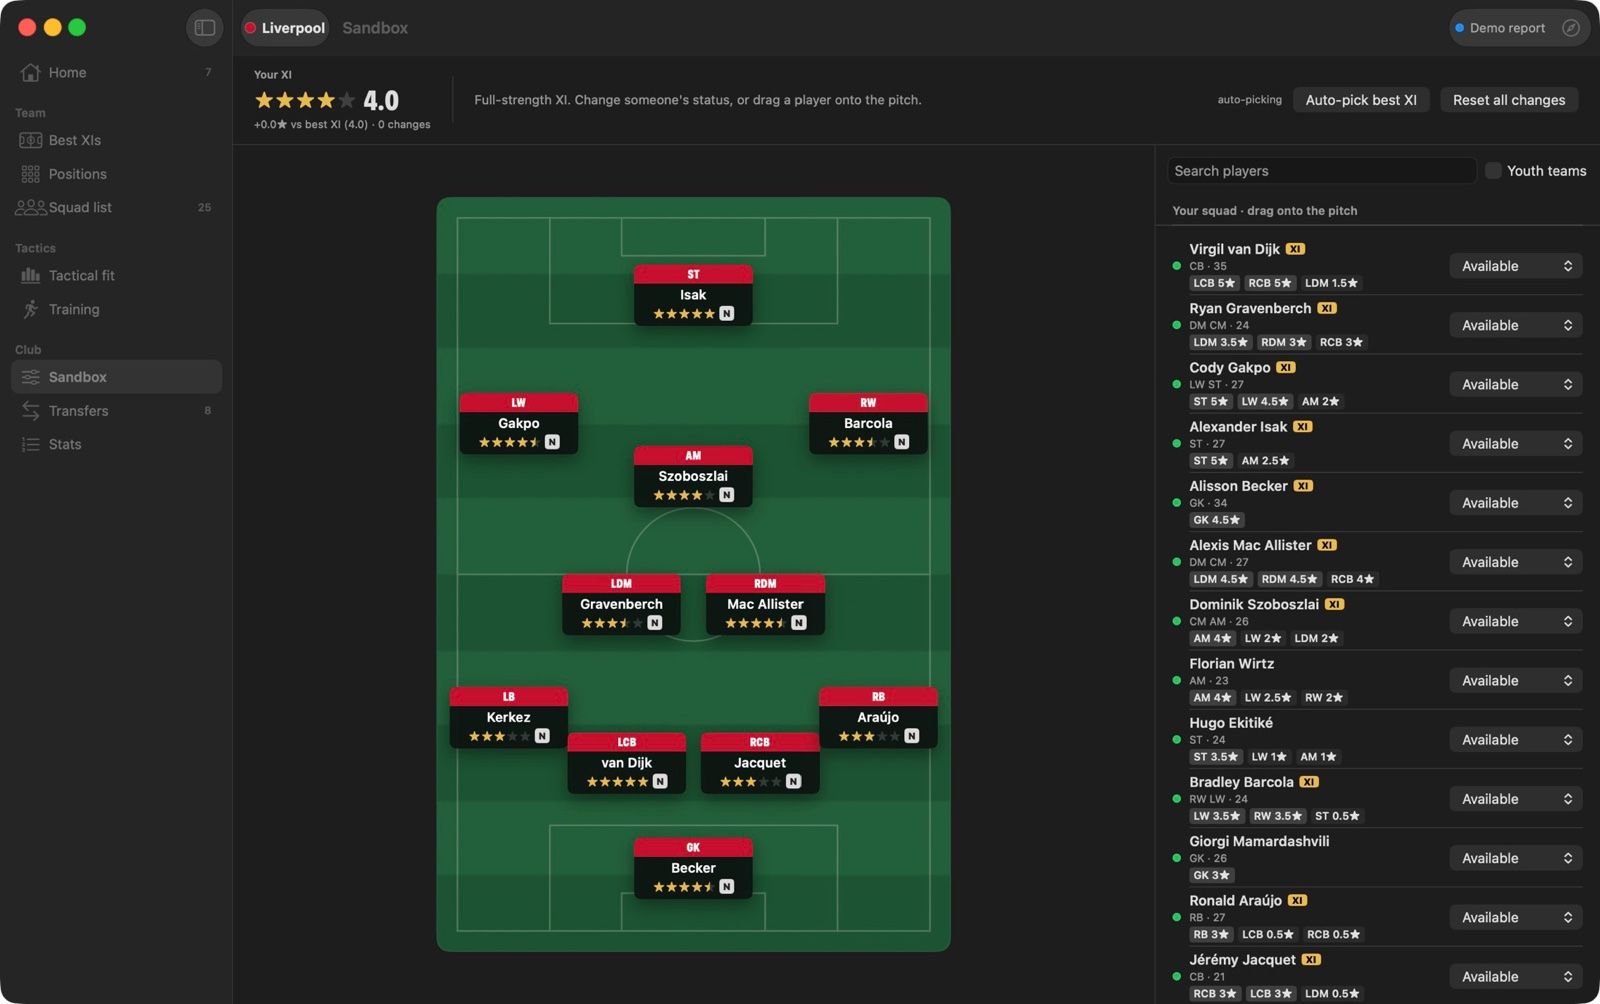
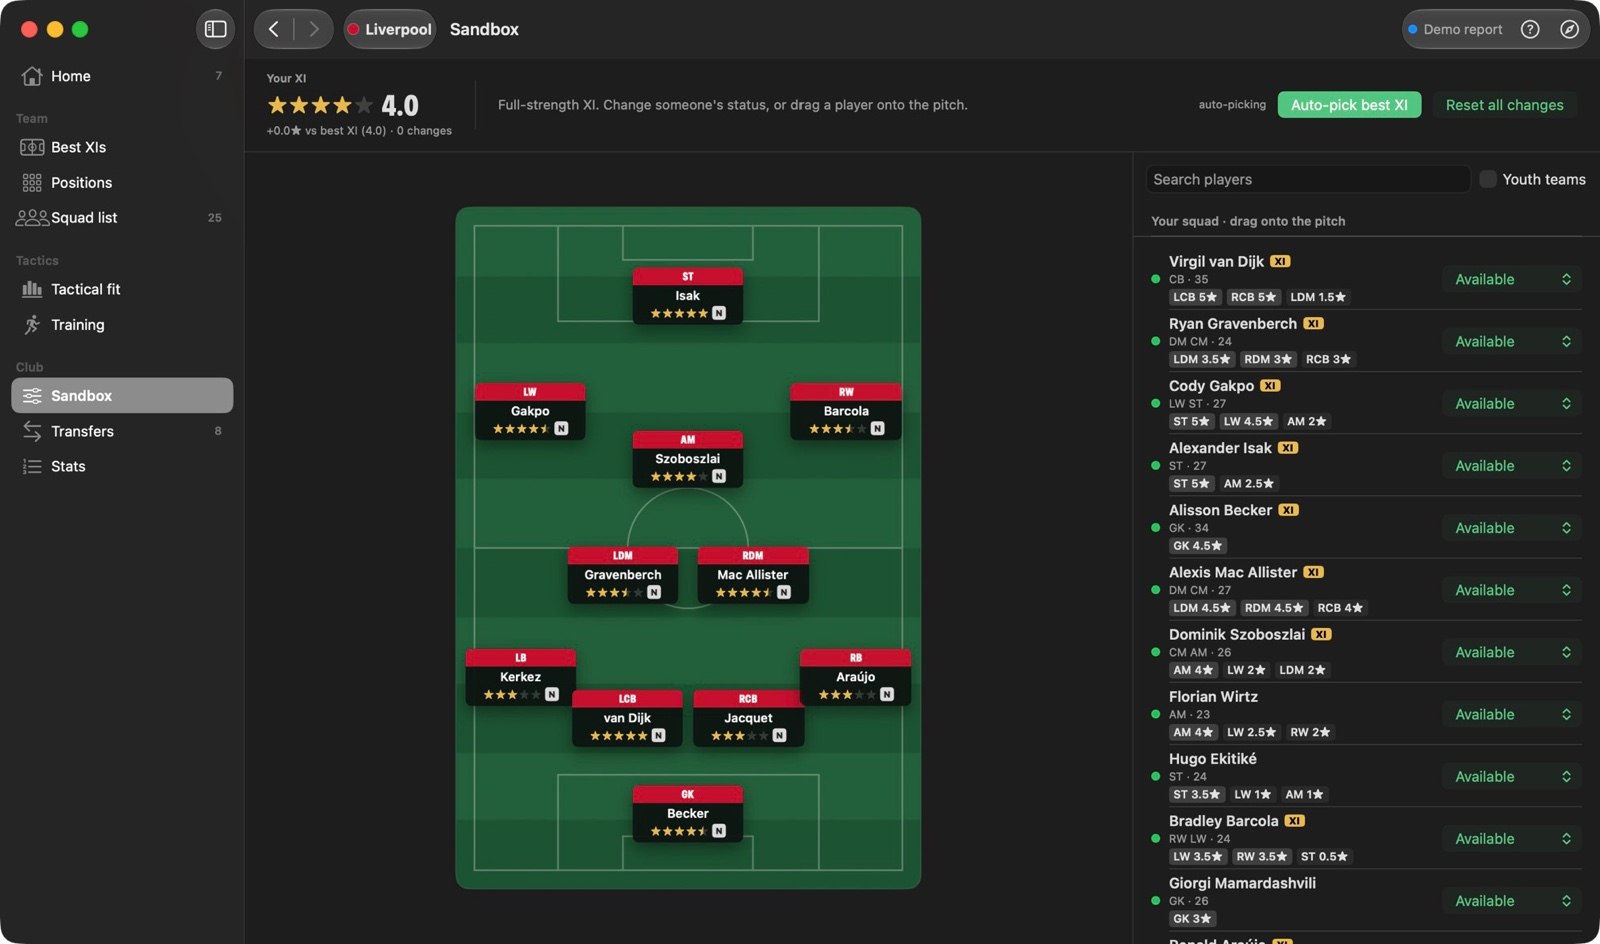
Demo site: fresh Mac screenshots with the 3D pitch
Retaken in demo mode (made-up save), Original look, dark, on the Retina
screen: Home now shows the 3D best XI in the banner and Best XIs opens in
3D. The window buttons are painted in the active colours, as before.

diff --git a/docs/index.html b/docs/index.html
@@ -2965,7 +2965,7 @@ body.mini{pointer-events:none;padding-bottom:0}
   <li class="rv"><b>2</b><h3>It rebuilds itself</h3><p>About 30 seconds after you save, the report is ready.</p></li>
   <li class="rv"><b>3</b><h3>Refresh and read</h3><p>Open the app, or refresh it if it's already open.</p></li></ol>
 </section>
-<section class="mac" id="mac" aria-label="The Mac app"><div class="how mac-head"><h2>Also a Mac app</h2></div><p class="mac-lede">The same report in its own Mac window: a sidebar instead of tabs, tables you can sort, and a menu bar item that tells you when your latest save has been read. Every page works the same as here, with the same rules.</p><div class="mac-shots"><figure class="rv"><img src="assets/mac-home.jpg" alt="The Mac app&#x27;s Home page: the club banner, club snapshot and the positions that need work" loading="lazy" decoding="async" width="1600" height="1004"><figcaption>Home</figcaption></figure><figure class="rv"><img src="assets/mac-squad.jpg" alt="The Mac app&#x27;s squad list: a sortable table grouped by position, with status badges" loading="lazy" decoding="async" width="1600" height="1004"><figcaption>Squad list</figcaption></figure><figure class="rv"><img src="assets/mac-xis.jpg" alt="The Mac app&#x27;s Best XIs: both XIs on pitches in the 4-2-3-1" loading="lazy" decoding="async" width="1600" height="1004"><figcaption>Best XIs</figcaption></figure><figure class="rv"><img src="assets/mac-sandbox.jpg" alt="The Mac app&#x27;s Sandbox: the XI on a pitch beside the squad, ready to drag players in" loading="lazy" decoding="async" width="1600" height="1004"><figcaption>Sandbox</figcaption></figure></div><ul class="mac-facts"><li class="rv"><b>Menu bar</b>“Reading your save, step 3 of 8”, then “Up to date”.</li><li class="rv"><b>Notifications</b>One when a new save has been read while you&#x27;re playing.</li><li class="rv"><b>Real tables</b>Sort, resize and hide the squad list&#x27;s columns.</li><li class="rv"><b>Nothing to install</b>Python and the save reader come inside the app.</li></ul><p class="mac-note">Screenshots use the made-up demo save, like the rest of this page.</p></section>
+<section class="mac" id="mac" aria-label="The Mac app"><div class="how mac-head"><h2>Also a Mac app</h2></div><p class="mac-lede">The same report in its own Mac window: a sidebar instead of tabs, tables you can sort, and a menu bar item that tells you when your latest save has been read. Every page works the same as here, with the same rules.</p><div class="mac-shots"><figure class="rv"><img src="assets/mac-home.jpg" alt="The Mac app&#x27;s Home page: the club banner, club snapshot and the positions that need work" loading="lazy" decoding="async" width="1600" height="944"><figcaption>Home</figcaption></figure><figure class="rv"><img src="assets/mac-squad.jpg" alt="The Mac app&#x27;s squad list: a sortable table grouped by position, with status badges" loading="lazy" decoding="async" width="1600" height="944"><figcaption>Squad list</figcaption></figure><figure class="rv"><img src="assets/mac-xis.jpg" alt="The Mac app&#x27;s Best XIs: both XIs on pitches in the 4-2-3-1" loading="lazy" decoding="async" width="1600" height="944"><figcaption>Best XIs</figcaption></figure><figure class="rv"><img src="assets/mac-sandbox.jpg" alt="The Mac app&#x27;s Sandbox: the XI on a pitch beside the squad, ready to drag players in" loading="lazy" decoding="async" width="1600" height="944"><figcaption>Sandbox</figcaption></figure></div><ul class="mac-facts"><li class="rv"><b>Menu bar</b>“Reading your save, step 3 of 8”, then “Up to date”.</li><li class="rv"><b>Notifications</b>One when a new save has been read while you&#x27;re playing.</li><li class="rv"><b>Real tables</b>Sort, resize and hide the squad list&#x27;s columns.</li><li class="rv"><b>Nothing to install</b>Python and the save reader come inside the app.</li></ul><p class="mac-note">Screenshots use the made-up demo save, like the rest of this page.</p></section>
 <section class="cta"><h2>Your save is waiting.</h2><a class="btn inv" href="app/" data-launch>Launch the app</a>
  <p>Opens at localhost:8027/app on this Mac.</p></section>
 </main>
